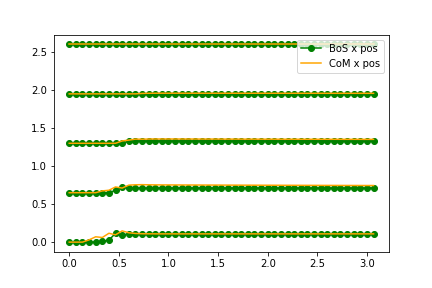
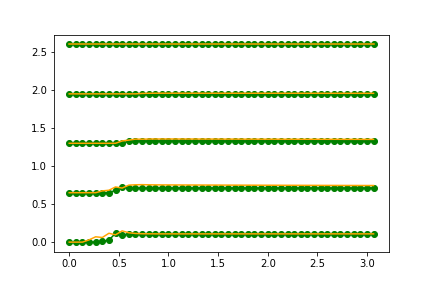
VERSION COMBINEE ET BONNE
CEST LA BONNE VERSION QUI NE BUG PAS

Changed region(s): [[0.6921, 0.125, 0.9028, 0.2812]]

diff --git a/interface.py b/interface.py
@@ -16,7 +16,7 @@ import imageio
 ############################     Parameters     ##############################
 ##############################################################################
 input_folder = './Sim/'
-default_file_name = input_folder+'test_line.txt'
+default_file = input_folder+'test_line.txt'
 
 default_save_name = input_folder+'anim_test.gif'
 
@@ -175,8 +175,8 @@ def create_animation(save_name, output_file_name):
                                    interval=interval_delay)
 
     anim.save(save_name, writer='Pillow')
-    clip = mp.VideoFileClip(save_name)
-    clip.write_videofile("resultat.mp4")
+    #clip = mp.VideoFileClip(save_name)
+    #clip.write_videofile("resultat.mp4")
     #plt.show()
     return None
     
@@ -239,7 +239,7 @@ def create_animation(save_name, output_file_name):
 
 #create_animation()
 def X_pos_plot(default_file_name):
-    
+    plt.clf()
     Time, CoMPositions, BoSPositions = load_output(default_file_name)
     #print("TimeSteps : ",Time[1:]-Time[:-1])
     N_agents = len(CoMPositions[0]) # Number of agents
@@ -264,14 +264,13 @@ def X_pos_plot(default_file_name):
               Time,
               [x_pos for x_pos in CoMPositions[:,i,0]],color=colors[0])
 
-    plt.legend()
     plt.savefig("Xposplot.png")
-    #plt.show()
+    plt.show()
     plt.close()
     
   
 def trajectory_plot(default_file_name):
-    
+    plt.clf()
     Time, CoMPositions, BoSPositions = load_output(default_file_name)
     print("TimeSteps : ",Time[1:]-Time[:-1])
     N_agents = len(CoMPositions[0]) # Number of agents
@@ -293,9 +292,8 @@ def trajectory_plot(default_file_name):
           [x_pos for x_pos in BoSPositions[:,i,0]],
           [y_pos for y_pos in BoSPositions[:,i,1]]
               ,'-o')
-    plt.legend()
     plt.savefig("trajectoryplot.png")
-    #plt.show()
+    plt.show()
     plt.close()
 ##############################################################################
 ############################     Tkinter        ##############################
@@ -313,7 +311,7 @@ def interface1() :
     
     # entrée
     value = StringVar() 
-    value.set(default_file_name)    
+    value.set(default_file)    
     entree = Entry(fenetre, textvariable=value, width=30)
     entree.pack(side=BOTTOM, pady=5)
     
@@ -323,11 +321,11 @@ def interface1() :
 
 def importerClicked() :
     print(value.get())
-    #create_animation(default_save_name, value.get())
-    print("finished annimation")
-    trajectory_plot(value.get())
+    create_animation("tet.gif", "./Sim/test_line.txt") #default_save_name
+    print("finished animation")
+    trajectory_plot("./Sim/test_line.txt")
     print("finished traj")
-    X_pos_plot(value.get())
+    X_pos_plot("./Sim/test_line.txt")
     print("finished xplot")
     
     for widget in fenetre.winfo_children():
@@ -341,7 +339,7 @@ def interface2() :
     label = Label(fenetre)
     canvas2 = Canvas(fenetre, width=250, height=100, bg='ivory')
     canvas2.pack(side=TOP, padx=5, pady=5)
-    button1 = Button(fenetre, text ='Annimation',command = afficherAnimation).pack(side=BOTTOM)
+    button1 = Button(fenetre, text ='Animation',command = afficherAnimation).pack(side=BOTTOM)
     button2 = Button(fenetre, text ='Xposplot',command = afficherXPlot).pack(side=BOTTOM)
     button3 = Button(fenetre, text ='Trajectoryplot',command = afficherTrajPlot).pack(side=BOTTOM)
 
